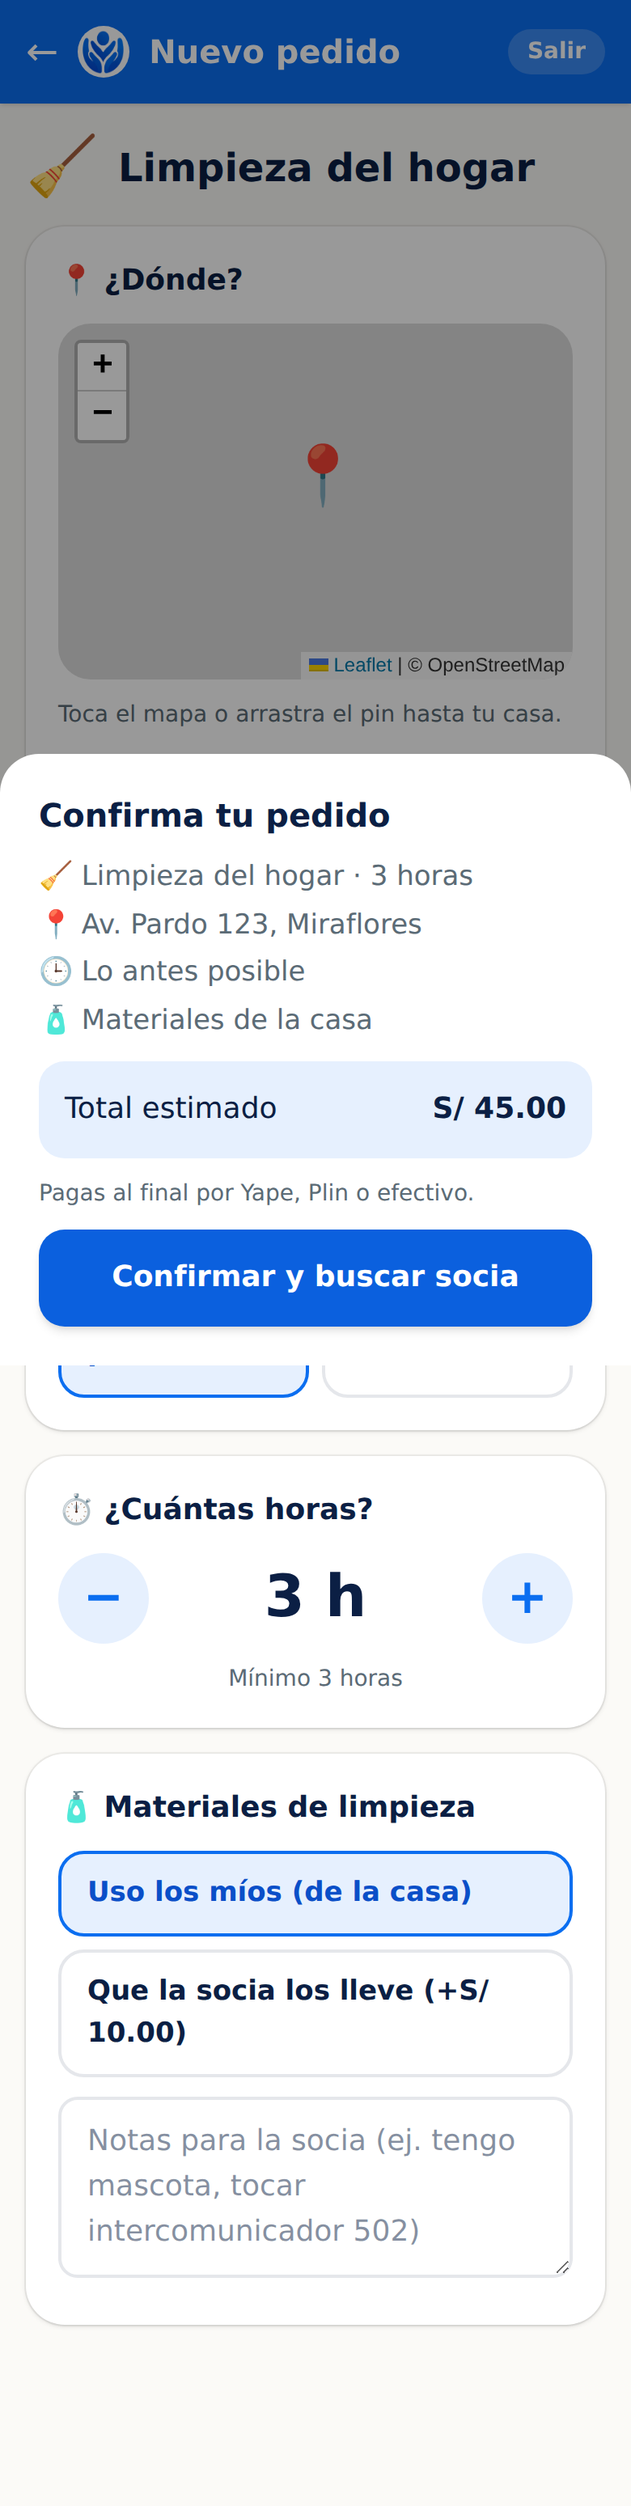
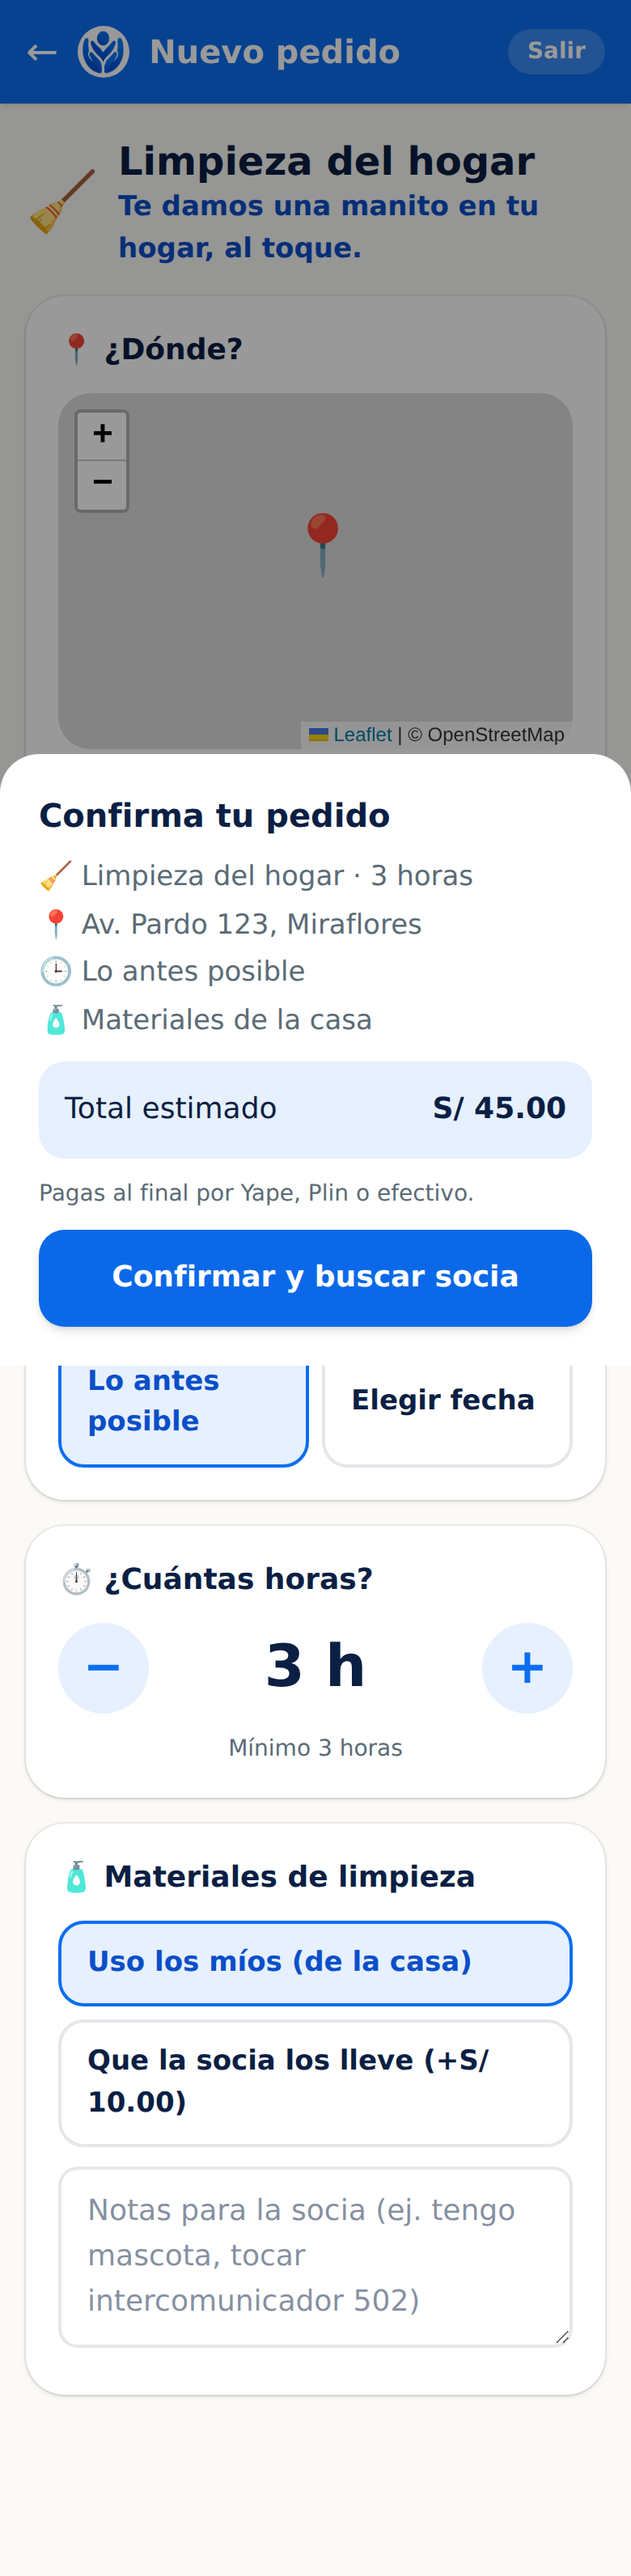
Eslogan propio para cada servicio y uno general para clientes
Claude-Session: https://claude.ai/code/session_01GFqgHMqtv775ozhpLcjV5H

diff --git a/src/lib/config.ts b/src/lib/config.ts
@@ -1,14 +1,14 @@
 import type { Config, EstadoPedido, Servicio } from "./tipos";
 
-export const ESLOGAN_CLIENTE = "Te damos una manito en tu hogar, al toque.";
+export const ESLOGAN_CLIENTE = "Te damos una manito, al toque."; // general; cada servicio tiene el suyo
 export const ESLOGAN_SOCIA = "Te damos una manito para crecer.";
 
 export const SERVICIOS_INICIALES: Servicio[] = [
-  { id: "limpieza", nombre: "Limpieza del hogar", icono: "🧹", activo: true, precioHora: 15, horasMin: 3, recargoMateriales: 10 },
-  { id: "gasfiteria", nombre: "Gasfitería", icono: "🔧", activo: false, precioHora: 35, horasMin: 1, recargoMateriales: 0 },
-  { id: "electricidad", nombre: "Electricidad", icono: "💡", activo: false, precioHora: 35, horasMin: 1, recargoMateriales: 0 },
-  { id: "lavado_autos", nombre: "Lavado de autos", icono: "🚗", activo: false, precioHora: 25, horasMin: 1, recargoMateriales: 5 },
-  { id: "piscinas", nombre: "Limpieza de piscinas", icono: "🏊", activo: false, precioHora: 30, horasMin: 2, recargoMateriales: 15 },
+  { id: "limpieza", nombre: "Limpieza del hogar", icono: "🧹", eslogan: "Te damos una manito en tu hogar, al toque.", activo: true, precioHora: 15, horasMin: 3, recargoMateriales: 10 },
+  { id: "gasfiteria", nombre: "Gasfitería", icono: "🔧", eslogan: "Te damos una manito con tus caños, al toque.", activo: false, precioHora: 35, horasMin: 1, recargoMateriales: 0 },
+  { id: "electricidad", nombre: "Electricidad", icono: "💡", eslogan: "Te damos una manito con la luz, al toque.", activo: false, precioHora: 35, horasMin: 1, recargoMateriales: 0 },
+  { id: "lavado_autos", nombre: "Lavado de autos", icono: "🚗", eslogan: "Te damos una manito con tu auto, al toque.", activo: false, precioHora: 25, horasMin: 1, recargoMateriales: 5 },
+  { id: "piscinas", nombre: "Limpieza de piscinas", icono: "🏊", eslogan: "Te damos una manito con tu piscina, al toque.", activo: false, precioHora: 30, horasMin: 2, recargoMateriales: 15 },
 ];
 
 export const DISTRITOS_LIMA = [

diff --git a/src/app/cliente/nuevo/page.tsx b/src/app/cliente/nuevo/page.tsx
@@ -41,7 +41,7 @@ function Formulario() {
 
   return (
     <Pantalla>
-      <div className="flex items-center gap-3"><span className="text-4xl">{servicio.icono}</span><h2 className="text-2xl font-extrabold">{servicio.nombre}</h2></div>
+      <div className="flex items-center gap-3"><span className="text-4xl">{servicio.icono}</span><div><h2 className="text-2xl font-extrabold">{servicio.nombre}</h2><p className="font-semibold text-marca-oscuro">{servicio.eslogan}</p></div></div>
 
       <section className="tarjeta space-y-3">
         <h3 className="text-lg font-bold">📍 ¿Dónde?</h3>

diff --git a/src/app/cliente/page.tsx b/src/app/cliente/page.tsx
@@ -31,6 +31,7 @@ export default function InicioCliente() {
             s.activo ? (
               <Link key={s.id} href={`/cliente/nuevo?servicio=${s.id}`} className="tarjeta flex flex-col items-center gap-2 text-center ring-2 ring-marca">
                 <span className="text-5xl">{s.icono}</span><span className="font-bold">{s.nombre}</span>
+                <span className="text-sm text-marca-oscuro">{s.eslogan}</span>
                 <span className="text-sm text-suave">desde {soles(s.precioHora)}/hora</span>
               </Link>
             ) : (

diff --git a/src/app/layout.tsx b/src/app/layout.tsx
@@ -5,7 +5,7 @@ import RegistrarSW from "@/components/RegistrarSW";
 
 export const metadata: Metadata = {
   title: "Una Manito",
-  description: "Te damos una manito en tu hogar, al toque. Servicios del hogar en Lima.",
+  description: "Te damos una manito, al toque. Servicios del hogar en Lima.",
   manifest: "/manifest.webmanifest",
   icons: { icon: "/icono-192.png", apple: "/icono-192.png" },
   appleWebApp: { capable: true, title: "Una Manito", statusBarStyle: "default" },

diff --git a/src/lib/store.tsx b/src/lib/store.tsx
@@ -30,7 +30,7 @@ const SEMILLA: Datos = {
   sesion: null,
 };
 
-const CLAVE = "una-manito-demo-v1";
+const CLAVE = "una-manito-demo-v2";
 const nuevoId = (p: string) => p + Math.random().toString(36).slice(2, 8);
 
 interface Api extends Datos {

diff --git a/src/lib/tipos.ts b/src/lib/tipos.ts
@@ -6,6 +6,7 @@ export interface Servicio {
   id: ServicioId;
   nombre: string;
   icono: string;
+  eslogan: string;
   activo: boolean;
   precioHora: number; // soles
   horasMin: number;

diff --git a/README.md b/README.md
@@ -1,6 +1,6 @@
 # Una Manito 🤝
 
-> Te damos una manito en tu hogar, al toque.
+> Te damos una manito, al toque.
 
 App tipo Uber para servicios del hogar en Lima. **Beta: solo limpieza doméstica.** Es una PWA mobile-first en español.
 
